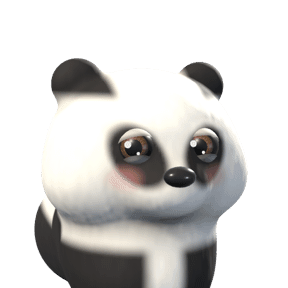
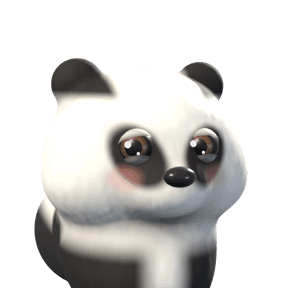
Preise aus StoreKit, Zurueck-Wischgeste, Eule, Panda, keine Trennung im Angebot
- LucentaKaeufePlugin.preise(): displayPrice und abgeleitete Betraege, feste Texte als Rueckfall
- Wischen vom linken Rand fuehrt auf Unterseiten zurueck, Seite folgt dem Finger
- Zwinkerndes Eulenauge ohne Augapfel, als Bogen; Panda-Grenze weicher
- pruef-nativ: vier Pruefungen fuer die Store-Preise (65)

Changed region(s): [[0.125, 0.7188, 0.5312, 1.0], [0.625, 0.8438, 0.75, 1.0]]

diff --git a/src/js/20-wiring.js b/src/js/20-wiring.js
@@ -20,3 +20,72 @@
   // Runde 136: die Sprachwahl als eigene Seite.
   $('btnSpracheOeffnen').addEventListener('click', function(){ showView('sprache'); });
   $('btnBackFromSprache').addEventListener('click', function(){ showView('settings'); });
+
+
+  // ---------- Zurueck durch Wischen vom linken Rand (Runde 137) ----------
+  //
+  // Seit Runde 136 schieben sich Unterseiten wie in iOS herein. Zu dieser Form gehoert in iOS die
+  // Geste: vom linken Bildschirmrand nach rechts ziehen, und die Seite folgt dem Finger; loslassen
+  // nach gut einem Drittel (oder mit Schwung) geht zurueck, sonst rastet sie wieder ein. Ohne die
+  // Geste waere der Uebergang nur halb iOS — man saehe die Form und koennte sie nicht benutzen.
+  //
+  // Nur auf Unterseiten (UNTERSEITE_VON) und nur aus einem schmalen Randstreifen, damit ein
+  // waagerechtes Wischen mitten auf der Seite (Zeitraumwaehler, Diagramme) nichts ausloest. Erst
+  // wenn die Bewegung eindeutig waagerecht ist, gehoert sie der Geste; sonst bleibt es Bildlauf.
+  (function randGeste(){
+    var RAND = 24, aktiv = null;
+    function ende(zurueck){
+      var g = aktiv; aktiv = null;
+      if (!g || !g.gestartet){ return; }
+      var dauer = prefersReducedMotion() ? 0 : 280;
+      g.seite.classList.add('nav-loslassen'); g.unter.classList.add('nav-loslassen');
+      g.seite.style.transform = zurueck ? 'translateX(100vw)' : '';
+      g.unter.style.transform = zurueck ? 'none' : 'translateX(-30%)';
+      g.unter.style.filter = zurueck ? 'none' : 'brightness(.92)';
+      setTimeout(function(){
+        [g.seite, g.unter].forEach(function(v){
+          v.classList.remove('nav-loslassen','nav-ziehen','nav-unter');
+          v.style.transform = ''; v.style.filter = ''; v.style.top = ''; v.style.left = ''; v.style.width = '';
+        });
+        if (zurueck) showView(g.ziel, {geste:true});
+      }, dauer);
+    }
+    document.addEventListener('touchstart', function(e){
+      var ziel = UNTERSEITE_VON[currentView];
+      if (!ziel || !e.touches || e.touches.length !== 1) return;
+      var t = e.touches[0];
+      if (t.clientX > RAND) return;
+      aktiv = {x:t.clientX, y:t.clientY, zeit:Date.now(), ziel:ziel, gestartet:false,
+               seite:$('view-'+currentView), unter:$('view-'+ziel), dx:0};
+    }, {passive:true});
+    document.addEventListener('touchmove', function(e){
+      var g = aktiv;
+      if (!g || !e.touches || !e.touches.length) return;
+      var t = e.touches[0], dx = t.clientX - g.x, dy = t.clientY - g.y;
+      if (!g.gestartet){
+        if (Math.abs(dx) < 8 && Math.abs(dy) < 8) return;
+        // Eher senkrecht: Das ist Bildlauf, nicht die Geste.
+        if (dx <= 0 || Math.abs(dy) > Math.abs(dx)){ aktiv = null; return; }
+        g.gestartet = true;
+        var r = g.seite.getBoundingClientRect();
+        g.breite = r.width + 2 * r.left;
+        // Die Seite darunter an die Stelle, an der man sie verlassen hat.
+        var oben = r.top + window.scrollY - (viewScroll[g.ziel] || 0);
+        g.unter.style.top = oben + 'px'; g.unter.style.left = r.left + 'px'; g.unter.style.width = r.width + 'px';
+        g.unter.classList.add('nav-unter'); g.seite.classList.add('nav-ziehen');
+      }
+      e.preventDefault();
+      g.dx = Math.max(0, dx);
+      var anteil = Math.min(1, g.dx / g.breite);
+      g.seite.style.transform = 'translateX(' + g.dx + 'px)';
+      g.unter.style.transform = 'translateX(' + (-30 * (1 - anteil)) + '%)';
+      g.unter.style.filter = 'brightness(' + (0.92 + 0.08 * anteil) + ')';
+      g.v = g.dx / Math.max(1, Date.now() - g.zeit);
+    }, {passive:false});
+    document.addEventListener('touchend', function(){
+      var g = aktiv;
+      if (!g) return;
+      ende(g.gestartet && (g.dx > g.breite * 0.35 || (g.v || 0) > 0.6));
+    });
+    document.addEventListener('touchcancel', function(){ ende(false); });
+  })();

diff --git a/tools/figuren_rendern/Tiere.swift b/tools/figuren_rendern/Tiere.swift
@@ -110,11 +110,14 @@ func lider(an wurzel: SCNNode, mitte: V, r: Float, vorn: V, s: Float, farbe: V, 
     let X = simd_cross(U, F)                       // zeigt zur Seite
     let kipp: Float = 0.30                         // wie stark sich die Lidkante woelbt
     let schraeg = a.schraeg * s * (simd_dot(X, V(1, 0, 0)) >= 0 ? 1 : -1)
-    let oben = geschlossen ? 0.62 : a.oben, unten = geschlossen ? 0.46 : a.unten
+    // Geschlossen: Die Lider treffen sich knapp unter der Mitte, die Kante des unteren woelbt sich
+    // kraeftig nach oben — das "^" eines laechelnden, zugekniffenen Auges.
+    let oben = geschlossen ? 0.58 : a.oben, unten = geschlossen ? 0.48 : a.unten
     // Oberlid: Achse nach oben, nach hinten gekippt -> Kante als Bogen nach oben; schraeg zur Seite.
     let dO = simd_normalize(U * cosf(kipp) - F * sinf(kipp) + X * sinf(schraeg))
     // Unterlid: Achse nach unten, nach VORN gekippt -> Kante woelbt sich nach oben (laechelndes Auge).
-    let dU = simd_normalize(-U * cosf(kipp) + F * sinf(kipp) * 0.8 - X * sinf(schraeg) * 0.5)
+    let kippU: Float = geschlossen ? 0.75 : kipp
+    let dU = simd_normalize(-U * cosf(kippU) + F * sinf(kippU) * 0.8 - X * sinf(schraeg) * 0.5)
     // Die Kante in der Augenmitte: so weit von oben (bzw. unten), wie `oben` (`unten`) sagt.
     func kante(_ anteil: Float, _ seite: Float) -> V {
         let h = (1 - 2 * anteil) * seite
@@ -165,12 +168,15 @@ func augenEinsetzen(_ wurzel: SCNNode, _ kopf: Koerper, x: Float, y: Float, r: C
         let au = auge(radius: r, iris: iris, pupille: pupille, schlitz: schlitz, quer: quer, funke: a.funke)
         au.position = scnVektor(mitte); au.name = "auge"
         au.look(at: scnVektor(V(blick.x + x * s * aussen * 4, blick.y, blick.z)), up: SCNVector3(0, 1, 0), localFront: SCNVector3(0, 0, 1))
-        wurzel.addChildNode(au)
+        // Runde 137, am Bild gesehen: Unter dem geschlossenen Lid schimmerten Hornhaut und Lichtpunkte
+        // durch — das zwinkernde Auge las sich als glaenzende Kugel. Geschlossen gibt es keinen Augapfel.
+        let zu = a.zwinkern && s < 0
+        if !zu { wurzel.addChildNode(au) }
         // Lidfarbe: das Fell knapp ueber dem Auge.
         let ueber = V(x * s, y + Float(r) * 1.25, vorderflaeche(kopf, x * s, y + Float(r) * 1.25))
         let farbe = kopf.farbe(ueber, gradient(kopf, ueber)) * 0.92
         lider(an: wurzel, mitte: mitte, r: Float(r), vorn: gradient(kopf, V(x * s, y, zf)), s: s, farbe: farbe, a,
-              geschlossen: a.zwinkern && s < 0)
+              geschlossen: zu)
     }
 }
 // Ein Lidwulst ueber jedem Auge: verschmilzt mit dem Kopf und wirft den weichen Schatten aufs Auge.
@@ -404,8 +410,8 @@ func panda() -> (SCNNode, Float, V) {
     let koerper = brustbild(mitWangen(kopf, x: 0.48, y: -0.14, staerke: 0.40), vierbeiner(bau), farbe: { p, _ in
         // Das Pandamuster: weisser Koerper, schwarze Vorderbeine, und ein schwarzer Guertel ueber die
         // Schultern, der beide Beine ueber den Ruecken verbindet.
-        let guertel = glatt(0.42, 0.30, abs(p.z + 0.40)) * glatt(-0.50, -0.72, p.y)
-        let beine = max(glatt(-0.80, -0.95, p.y) * glatt(0.10, 0.26, abs(p.x)), glatt(-1.25, -1.40, p.y))
+        let guertel = glatt(0.50, 0.24, abs(p.z + 0.40)) * glatt(-0.46, -0.80, p.y)   // Runde 137: weicher auslaufend
+        let beine = max(glatt(-0.74, -1.02, p.y) * glatt(0.04, 0.32, abs(p.x)), glatt(-1.20, -1.45, p.y))
         return mische(farbeMitRauschen(weiss, p, 0.04), farbeMitRauschen(schwarz, p, 0.05), max(guertel, beine))
     })
     let w = SCNNode(); w.addChildNode(brustKnoten(koerper))

diff --git a/ios/App/App/LucentaKaeufePlugin.swift b/ios/App/App/LucentaKaeufePlugin.swift
@@ -38,7 +38,8 @@ public class LucentaKaeufePlugin: CAPInstancePlugin, CAPBridgedPlugin {
     public let pluginMethods: [CAPPluginMethod] = [
         CAPPluginMethod(name: "stand", returnType: CAPPluginReturnPromise),
         CAPPluginMethod(name: "kaufen", returnType: CAPPluginReturnPromise),
-        CAPPluginMethod(name: "restorePurchases", returnType: CAPPluginReturnPromise)
+        CAPPluginMethod(name: "restorePurchases", returnType: CAPPluginReturnPromise),
+        CAPPluginMethod(name: "preise", returnType: CAPPluginReturnPromise)
     ]
 
     /// Die beiden Abo-Produkte, in derselben Abo-Gruppe. Die Liste steht hier UND in
@@ -138,6 +139,40 @@ public class LucentaKaeufePlugin: CAPInstancePlugin, CAPBridgedPlugin {
             } catch {
                 call.reject(error.localizedDescription)
             }
+        }
+    }
+
+    /// Die Preise, wie der Store sie fuer dieses Konto zeigt (Runde 137).
+    ///
+    /// Bis hierher stand der Preis als fester Euro-Text in den Sprachpaketen. Im Store gilt er aber
+    /// je Land und Waehrung — wer in der Schweiz, in Japan oder in der Tuerkei kauft, haette einen
+    /// anderen Betrag gesehen als den, der dann abgebucht wird. `displayPrice` ist Apples fertig
+    /// formatierter Preis in der Waehrung des Kontos; die drei abgeleiteten Betraege (Jahr je Monat,
+    /// Monat mal zwoelf, Ersparnis) werden mit derselben Formatierung gerechnet, damit Waehrung und
+    /// Schreibweise ueberall dieselben sind. Die Ersparnis ist ABGERUNDET auf ganze Einheiten — sie
+    /// soll nie mehr versprechen, als es wirklich ist.
+    ///
+    /// Fehlt ein Produkt (noch nicht in App Store Connect angelegt), kommt eine leere Antwort, und
+    /// die Seite behaelt ihre festen Texte. Ein Fehler hier darf die Kaufseite nie leeren.
+    @objc func preise(_ call: CAPPluginCall) {
+        Task {
+            guard let liste = try? await Product.products(for: Array(Self.produkte)),
+                  let monat = liste.first(where: { $0.id == "lucenta.plus.monat" }),
+                  let jahr = liste.first(where: { $0.id == "lucenta.plus.jahr" }) else {
+                call.resolve([:])
+                return
+            }
+            let format = jahr.priceFormatStyle
+            var spar = monat.price * 12 - jahr.price
+            var abgerundet = Decimal()
+            NSDecimalRound(&abgerundet, &spar, 0, .down)
+            call.resolve([
+                "monat": monat.displayPrice,
+                "jahr": jahr.displayPrice,
+                "jahrProMonat": (jahr.price / 12).formatted(format),
+                "jahrStatt": (monat.price * 12).formatted(format),
+                "jahrSpar": abgerundet > 0 ? abgerundet.formatted(format.precision(.fractionLength(0))) : ""
+            ])
         }
     }
 

diff --git a/src/js/19b-native.js b/src/js/19b-native.js
@@ -286,6 +286,47 @@
     }catch(e){}
   }
 
+  // ---------- Preise aus dem Store (Runde 137) ----------
+  //
+  // Die Kaufseite traegt feste Euro-Betraege in acht Sprachen. Gilt im Store ein anderer Preis —
+  // anderes Land, andere Waehrung, eine spaetere Preisaenderung —, zeigte sie einen Betrag, der
+  // nicht abgebucht wird. Mit Bruecke fragt die App deshalb den Store und setzt dessen Betraege
+  // ein; ohne Antwort (Browser, Produkte noch nicht angelegt, Stoerung) bleiben die festen Texte.
+  // In die Saetze ("nur 2,50 EUR im Monat") wird nur der BETRAG getauscht, der Satz bleibt der der
+  // Sprache — so braucht es keine neuen Schluessel und keine achtfache Satzvorlage.
+  var PLUS_PREISE = null;
+  var BETRAG_MUSTER = /€\s?\d+(?:[.,]\d+)?|\d+(?:[.,]\d+)?\s?€/;
+  function plusPreiseHolen(){
+    var sk = nativModul('StoreKit');
+    if (!sk || !sk.preise) return;
+    try{
+      sk.preise().then(function(r){
+        if (!r || typeof r.jahr !== 'string' || typeof r.monat !== 'string' || !r.jahr || !r.monat) return;
+        PLUS_PREISE = r;
+        plusPreiseAnwenden();
+      }).catch(function(){});
+    }catch(e){}
+  }
+  function plusPreiseAnwenden(){
+    var wahl = $('plusPreisWahl');
+    if (!PLUS_PREISE || !wahl) return;
+    var setze = function(schluessel, text){
+      var el = wahl.querySelector('[data-i18n="'+schluessel+'"]');
+      if (el && text) el.textContent = text;
+      return el;
+    };
+    setze('plus_betrag_jahr', PLUS_PREISE.jahr);
+    setze('plus_betrag_monat', PLUS_PREISE.monat);
+    setze('plus_jahr_statt', PLUS_PREISE.jahrStatt);
+    if (PLUS_PREISE.jahrProMonat) setze('plus_jahr_pro_monat', tx('plus_jahr_pro_monat').replace(BETRAG_MUSTER, PLUS_PREISE.jahrProMonat));
+    // Keine Ersparnis (oder keine berechenbare): dann steht dort auch keine.
+    var spar = wahl.querySelector('[data-i18n="plus_jahr_spar"]');
+    if (spar){
+      if (PLUS_PREISE.jahrSpar) spar.textContent = tx('plus_jahr_spar').replace(BETRAG_MUSTER, PLUS_PREISE.jahrSpar);
+      spar.hidden = !PLUS_PREISE.jahrSpar;
+    }
+  }
+
   // ---------- Kaeufe wiederherstellen (Richtlinie 3.1.2) ----------
   //
   // Apple verlangt bei einem Abo einen Weg, bereits gekaufte Kaeufe auf einem neuen Geraet

diff --git a/src/styles/12-ios.css b/src/styles/12-ios.css
@@ -769,6 +769,9 @@
     border:1px solid var(--glas-rand); box-shadow:0 10px 30px -12px rgba(0,0,0,.35);
   }
   .plus-vorschau-text{ margin:0; font-size:14px; line-height:1.45; color:var(--ink); font-weight:500; }
+  /* Runde 137: keine Trennung in der Angebotskarte — sie trennte "Ver-stehen", den Namen einer
+     Ansicht, wo das ganze Wort in die naechste Zeile passt. Gleiche Regel wie in der Schublade. */
+  .plus-vorschau-text{ -webkit-hyphens:manual; hyphens:manual; }
   /* Die Tueren fuer die Vorschaukarte (pruefeTransparenzTueren haelt beide zusammen). */
   @media (prefers-reduced-transparency: reduce){
     .plus-vorschau-karte{ background:var(--surface); -webkit-backdrop-filter:none; backdrop-filter:none; }
@@ -822,3 +825,19 @@
   @media (prefers-reduced-motion: reduce){
     .view.active.nav-push, .view.active.nav-pop, .view.nav-weg-push, .view.nav-weg-pop{ animation:none; }
   }
+
+  /* Runde 137: die Zurueck-Geste vom linken Rand (20-wiring.js). Die Seite folgt dem Finger, die
+     Seite darunter steht an ihrem Platz und rueckt mit; beide tragen die Papierflaeche wie beim
+     Schieben oben. Beim Loslassen laufen beide mit derselben UIKit-Kurve ans Ziel. */
+  /* animation:none, weil eine Einblendung mit fill:both (rise, seite-rein) jede Verschiebung von
+     Hand ueberschreibt — am Bild gesehen: Die Seite blieb unter dem Finger stehen. */
+  .view.nav-ziehen{ position:relative; z-index:2; isolation:isolate; min-height:100vh; animation:none; }
+  .view.nav-unter{ animation:none; display:block; position:fixed; margin:0; pointer-events:none; z-index:1; isolation:isolate; min-height:100vh; }
+  .view.nav-ziehen::before, .view.nav-unter::before{
+    content:''; position:absolute; z-index:-1; pointer-events:none;
+    top:-200px; bottom:0; left:calc(-1 * var(--rand-links)); right:calc(-1 * var(--rand-rechts));
+    background:var(--paper);
+  }
+  .view.nav-ziehen::before{ box-shadow:-10px 0 28px rgba(0,0,0,.14); }
+  .view.nav-loslassen{ transition:transform .28s cubic-bezier(.32,.72,0,1), filter .28s cubic-bezier(.32,.72,0,1); }
+  @media (prefers-reduced-motion: reduce){ .view.nav-loslassen{ transition:none; } }

diff --git a/src/js/02-state.js b/src/js/02-state.js
@@ -89,6 +89,8 @@
     if (currentView && UNTERSEITE_VON[name] === currentView) art = 'push';
     else if (currentView && UNTERSEITE_VON[currentView] === name) art = 'pop';
     if (art){ richtung = art === 'push' ? 'nav-push' : 'nav-pop'; if (art === 'pop') opts.restoreScroll = true; }
+    // Die Wischgeste (20-wiring.js) hat den Uebergang schon selbst gezeigt — hier nur noch umschalten.
+    if (opts.geste){ art = null; opts.restoreScroll = true; }
     navWegAufraeumen();
     var alt = currentView ? $('view-'+currentView) : null;
     if (art && alt && !prefersReducedMotion()){
@@ -102,7 +104,7 @@
       v.classList.remove('active','nav-vor','nav-zurueck','nav-push','nav-pop');
     });
     var section = $('view-'+name);
-    if (!prefersReducedMotion() && currentView && currentView !== name){
+    if (!prefersReducedMotion() && currentView && currentView !== name && !opts.geste){
       // Erzwungenes Auslesen, damit der Browser die Animation als neu erkennt — dasselbe
       // Muster wie bei animateQuestionIn() und markLangShift().
       void section.offsetWidth;

diff --git a/src/js/21-beta-rueckmeldung.js b/src/js/21-beta-rueckmeldung.js
@@ -314,6 +314,7 @@
   // oben, weil es die Bruecke braucht — und weil die Testreihen den Code nur bis zur Marke
   // "wiring" ausfuehren und diesen Aufruf damit nicht anfassen.
   plusStandPruefen();
+  plusPreiseHolen();
   // Runde 121, auf Wunsch des Inhabers: Beim Start der App dieselbe kurze Bewegung wie nach dem
   // letzten Testschritt — das Fuenfeck zeichnet sich und fuellt sich —, hier mit dem Namen
   // darunter. Nur in der App: Im Browser laufen die Pruefungen gleich nach dem Laden los, und

diff --git a/src/js/18-ergebnisbild-dialog.js b/src/js/18-ergebnisbild-dialog.js
@@ -151,7 +151,7 @@
     el.textContent = text;
     el.hidden = !text;
   }
-  function plusModalAnwenden(){ laufzeitAnwenden(); plusKnopfAnwenden(); plusPersoenlichAnwenden(); }
+  function plusModalAnwenden(){ laufzeitAnwenden(); plusKnopfAnwenden(); plusPersoenlichAnwenden(); plusPreiseAnwenden(); }
 
   // Runde 99: Der Knopf "In Fotos sichern" erscheint nur mit nativer Bruecke. Er wird bei
   // jedem Oeffnen des Bildfensters neu gesetzt und nicht einmal beim Start: Ob eine Bruecke da

diff --git a/docs/ios-huelle-journal.md b/docs/ios-huelle-journal.md
@@ -7,7 +7,7 @@ gehoert ebenfalls hierher — nicht stillschweigend uebersprungen. Neueste Eintr
 
 ---
 
-## ÜBERGABE an die naechste Sitzung (Stand 2026-10-13, nach Runde 136)
+## ÜBERGABE an die naechste Sitzung (Stand 2026-10-13, nach Runde 137)
 
 **Lies NUR diesen Block.** Er genuegt allein; die Eintraege darunter sind Begruendungen zum
 Nachschlagen. Dazu `tools/xcode-CLAUDE.md` (liegt als `ios/App/CLAUDE.md` neben der `.xcodeproj`
@@ -40,7 +40,8 @@ Regeln, die er gesetzt hat:
 
 | Runde | Commit | Inhalt |
 | --- | --- | --- |
-| 136 | — | Verstehen ganz Lucenta+; Vergleiche frei mit 2 Personen, Archiv frei bis 2; Sprache als Unterseite (`view-sprache`); Unterseiten schieben sich wie iOS (Push/Pop) |
+| 137 | — | Preise aus StoreKit (`preise()`), Zurueck-Wischgeste vom linken Rand, Eulen-Zwinkern lesbar, Panda weicher, keine Trennung in der Angebotskarte |
+| 136 | `4d8552f` | Verstehen ganz Lucenta+; Vergleiche frei mit 2 Personen, Archiv frei bis 2; Sprache als Unterseite (`view-sprache`); Unterseiten schieben sich wie iOS (Push/Pop) |
 | 135 | `e755c72` | Suesser Blick: Lider, Blick zum Betrachter, groessere Augen und Lichtpunkte, Wangenroete; je Tier ein eigener `Ausdruck` |
 | 134 | `ef36e7a` | Tierkoerper statt Menschenoberkoerper: `vierbeiner(Bau(...))` — schmale tiefe Brust, Vorderbeine, Ruecken nach hinten; je Art eigene Masse und Zeichnung |
 | 133 | `9bad4bd` | Tiere mit Oberkoerper: fester Zuschnittrahmen (`rahmen.json`), Bild randlos im Kreis, Kopf deckungsgleich mit Runde 132 |
@@ -92,10 +93,11 @@ Regeln, die er gesetzt hat:
    Erinnerung und Nacherinnerung, bleiben sie nach einem Eintrag aus; Tipp auf die Mitteilung;
    Haptik; alle neuen Bewegungen in Bewegung (Funkeln, Enthuellung, Zuklappen, Startkarten);
    das neue Symbol auf dem Homescreen (Creme auf #5CB4AD hat nur rund 2:1 Kontrast).
-2. **Preise** kommen als fester Euro-Text. Sobald die Produkte in App Store Connect stehen,
-   `displayPrice` aus StoreKit holen.
-3. **Urteil des Inhabers ausstehend:** Polwoerter der fuenf Tagesform-Fragen, die 3D-Tiere mit Oberkoerper
-   (Runde 133; Dackel und Retriever die schwaechsten), die zarten Strahlen des Kranzes.
+2. **Preise:** erledigt in Runde 137 — `preise()` holt `displayPrice` aus StoreKit, feste Texte bleiben als
+   Rueckfall. Zu sehen erst mit echten Produkten in App Store Connect (die Testkonfiguration liefert
+   dieselben Euro-Betraege wie die festen Texte).
+3. **Urteil des Inhabers ausstehend:** Polwoerter der fuenf Tagesform-Fragen, die 3D-Tiere mit Koerper und Blick
+   (Runde 133–135), die zarten Strahlen des Kranzes.
 4. Moeglich, nicht beauftragt: Die Startkarten blenden beim Hereinfliegen auch ein (Deckkraft) —
    die Regel „nie ueber Deckkraft" gilt fuer Ansichtswechsel; falls er das anders sieht, eine Zeile
    in `karte-flug`.
@@ -199,6 +201,44 @@ SceneKit und CoreGraphics ja (`swiftc`).
 
 Branch `claude/lucenta-setup-browser-test-j6hn7f`, **nicht gepusht**, kein Pull Request ohne Bitte.
 Arbeitsbaum sauber bis auf `ios/App/App.xcworkspace/xcshareddata/` (absichtlich unversioniert).
+
+---
+
+## Runde 137 — Was offen war: Store-Preise, Wischgeste, Eule, Panda, Trennung
+
+**Auftrag:** "erledige alles was offen ist." Erledigt ist, was ohne iPhone und ohne den Inhaber geht.
+Offen bleibt, was nur er kann (echtes Geraet, App Store Connect, sein Urteil) — siehe unten.
+
+1. **Preise aus StoreKit.** `LucentaKaeufePlugin.preise()` liefert `displayPrice` beider Produkte und drei
+   daraus gerechnete Betraege in derselben Formatierung (Jahr je Monat, Monat × 12, Ersparnis — diese
+   ABGERUNDET, sie soll nie mehr versprechen, als es ist). `19b-native.js` holt sie beim Start und setzt
+   sie in die Kaufseite; in die Saetze ("nur 2,50 € im Monat") wird nur der Betrag getauscht, also keine
+   neuen Schluessel. Ohne Antwort (Browser, Produkte noch nicht angelegt, Stoerung) bleiben die festen
+   Texte. `pruef-nativ` **65** (vier neu: leere Antwort laesst die festen Betraege stehen, eine
+   Schweizer Antwort ersetzt alle fuenf Stellen). Gebaut mit xcodebuild, im Simulator gestartet, laeuft.
+   **Nicht gesehen:** die echten Store-Preise — die Testkonfiguration (`Lucenta.storekit`, Storefront
+   DEU) liefert genau 4,99/29,99 €, ein Bild davon haette nichts belegt.
+2. **Zurueck-Wischgeste** (`20-wiring.js`, Ende von `12-ios.css`): auf Unterseiten aus einem 24-pt-Streifen
+   am linken Rand nach rechts ziehen; die Seite folgt dem Finger, die Einstellungen liegen darunter und
+   ruecken mit. Loslassen nach 35 % der Breite oder mit Schwung (> 0,6 pt/ms) geht zurueck, sonst rastet
+   sie wieder ein. Erst eine eindeutig waagerechte Bewegung gehoert der Geste, sonst bleibt es Bildlauf.
+   **Fund beim Ansehen:** Die Seite blieb zuerst unter dem Finger stehen — die Einblendung `rise` mit
+   `fill:both` ueberschrieb jede Verschiebung von Hand; waehrend des Ziehens jetzt `animation:none`.
+   Mit nachgestellten Beruehrungen in Chromium geprueft (halber Zug -> zurueck, kurzer langsamer Zug ->
+   bleibt, keine Reste). **Nicht** am Geraet mit dem Finger.
+3. **Eule:** Das Zwinkern las sich auf 48 pt als dunkler Fleck. Ursache: Unter dem geschlossenen Lid
+   schimmerten Hornhaut und Lichtpunkte durch, das Auge sah aus wie eine glaenzende Kugel. Geschlossen gibt
+   es jetzt keinen Augapfel, und die Unterkante woelbt sich staerker nach oben — ein "^".
+4. **Panda:** Grenze zwischen Schwarz und Weiss weicher auslaufend.
+5. **Angebotskarte:** keine Silbentrennung mehr ("Ver-stehen"), wie in der Schublade.
+6. **Kleine Avatare** auf 48 pt (×2) alle zwoelf angesehen: lesbar, keine weitere Aenderung noetig.
+
+**Pruefungen:** `npm run pruef-alles` **ALLE 9 BESTANDEN** (12,3 Minuten), `pruef-nativ` 65, `fehlersuche`
+KEINE FUNDE. App gebaut (xcodebuild) und im Simulator gestartet.
+
+**Bleibt offen, nur fuer den Inhaber:** echtes iPhone (Erinnerungen, Haptik, Bewegung, Wischgeste mit dem
+Finger, Symbol auf dem Homescreen), die zwei Produkte in App Store Connect, sein Urteil zu Polwoertern,
+Tieren und Strahlenkranz.
 
 ---
 
